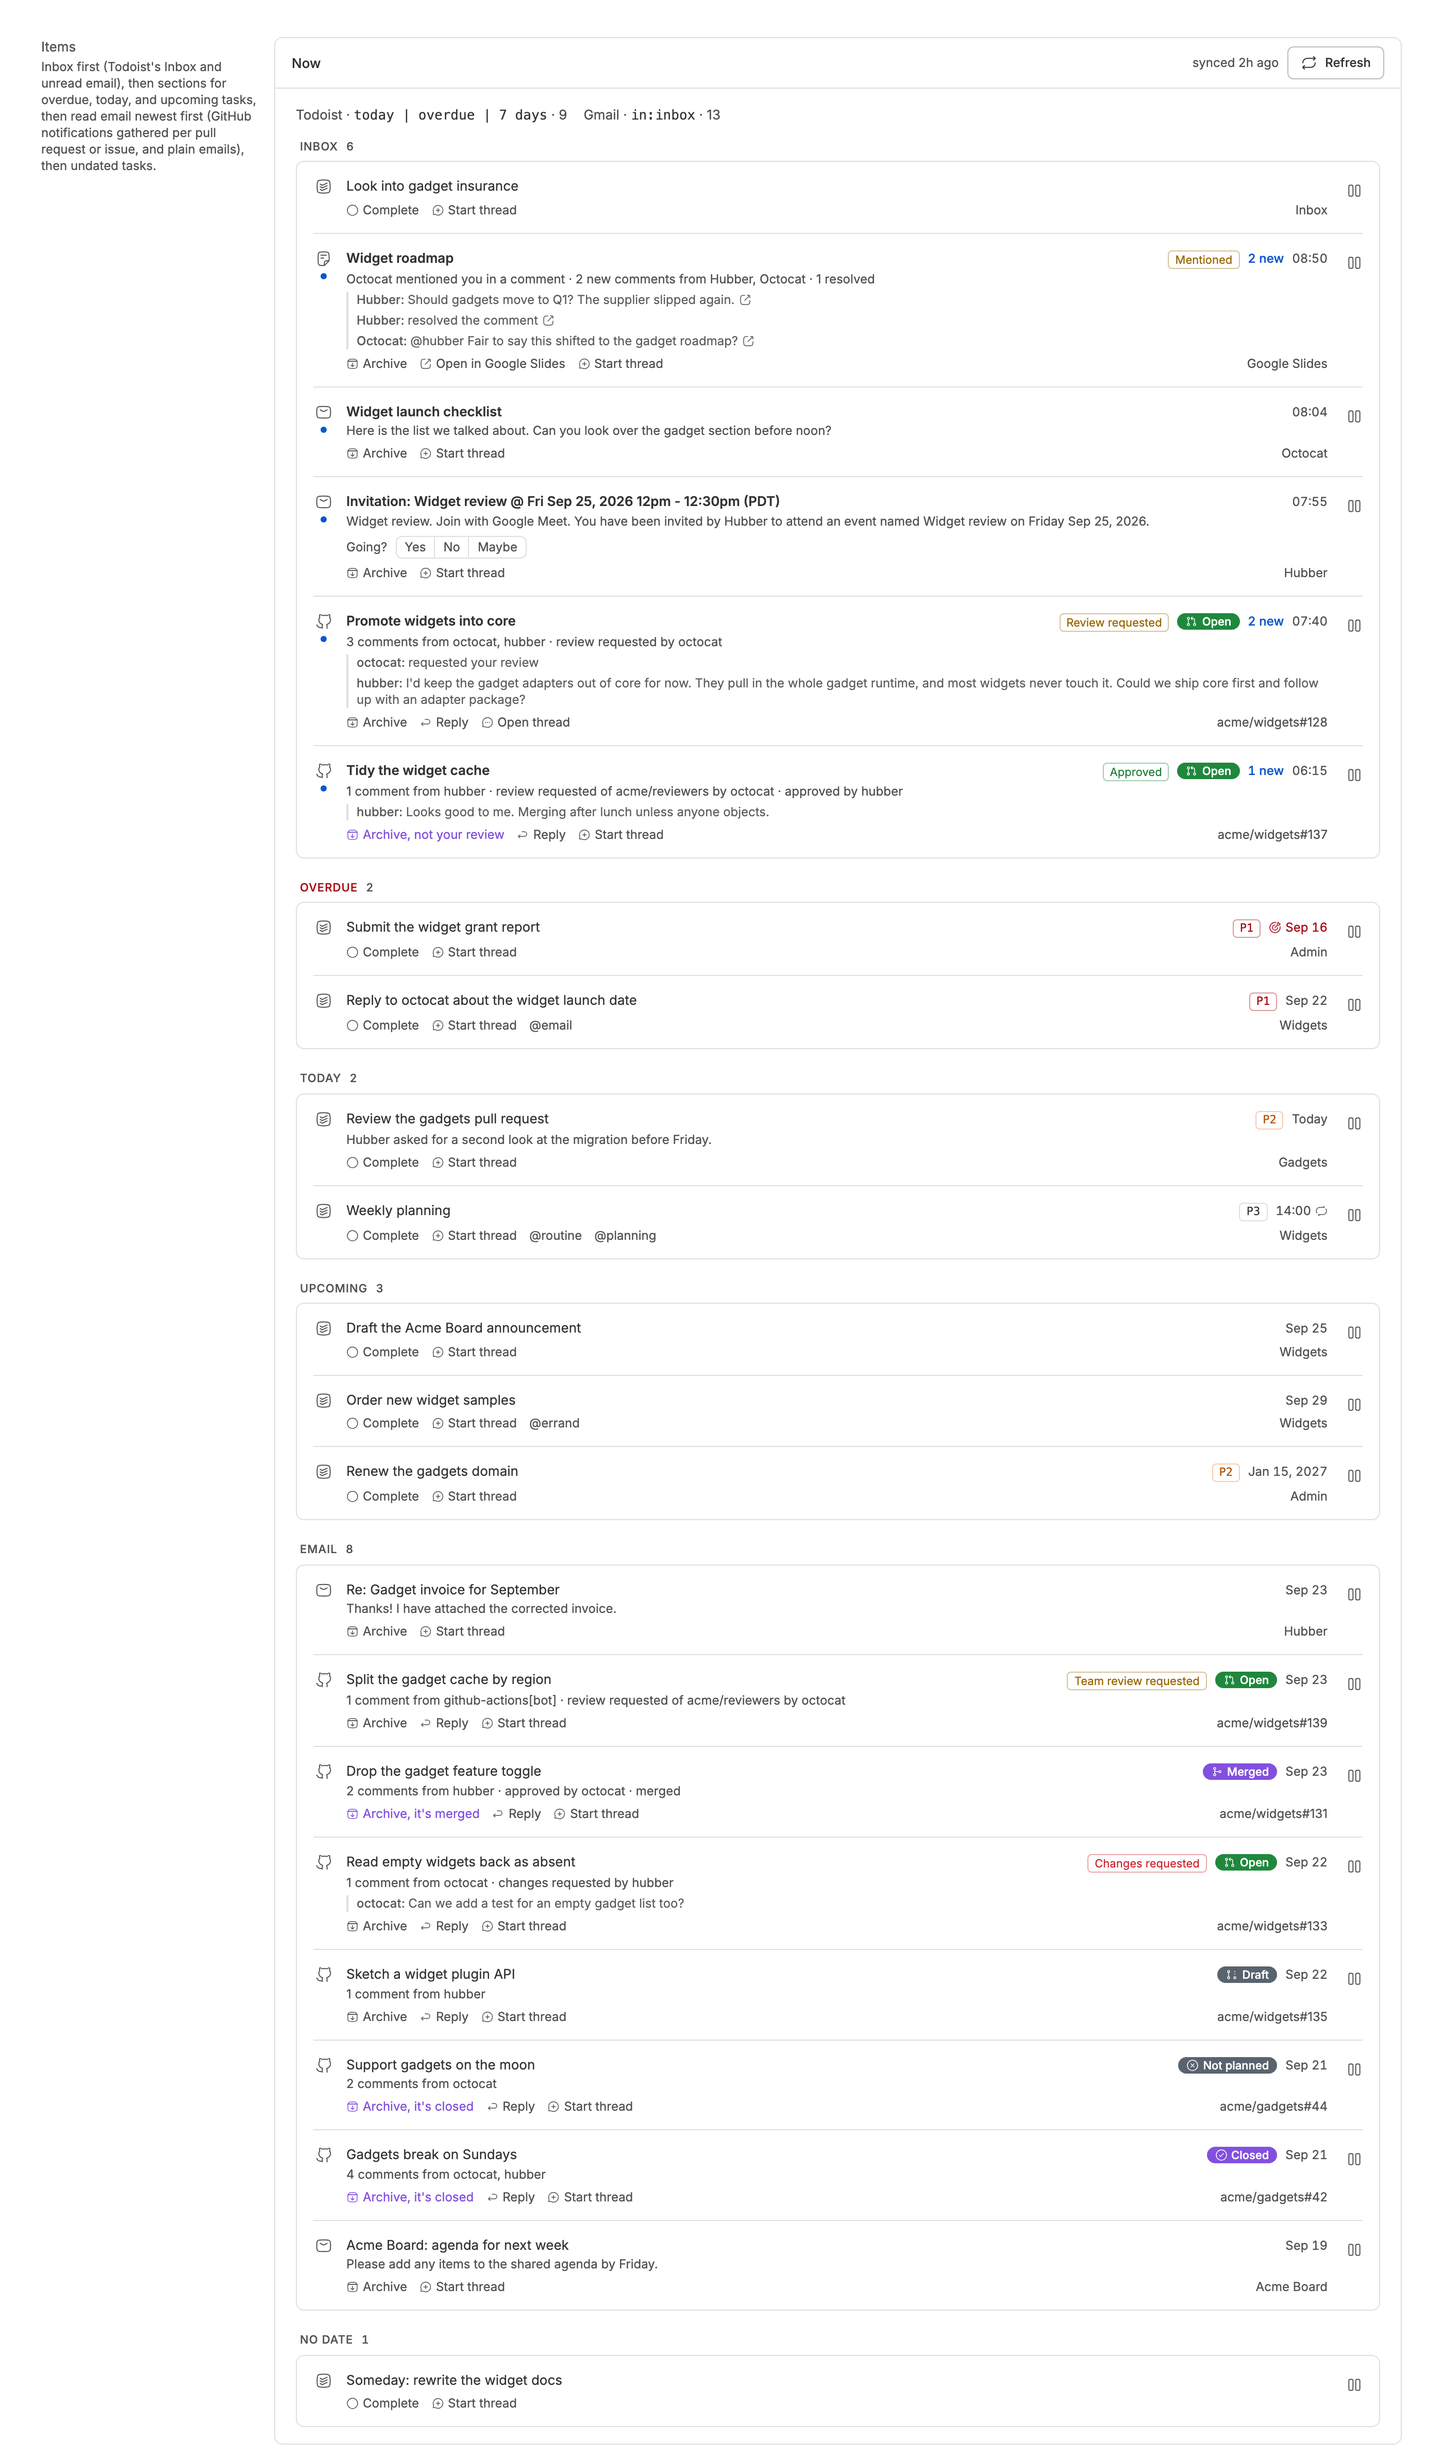
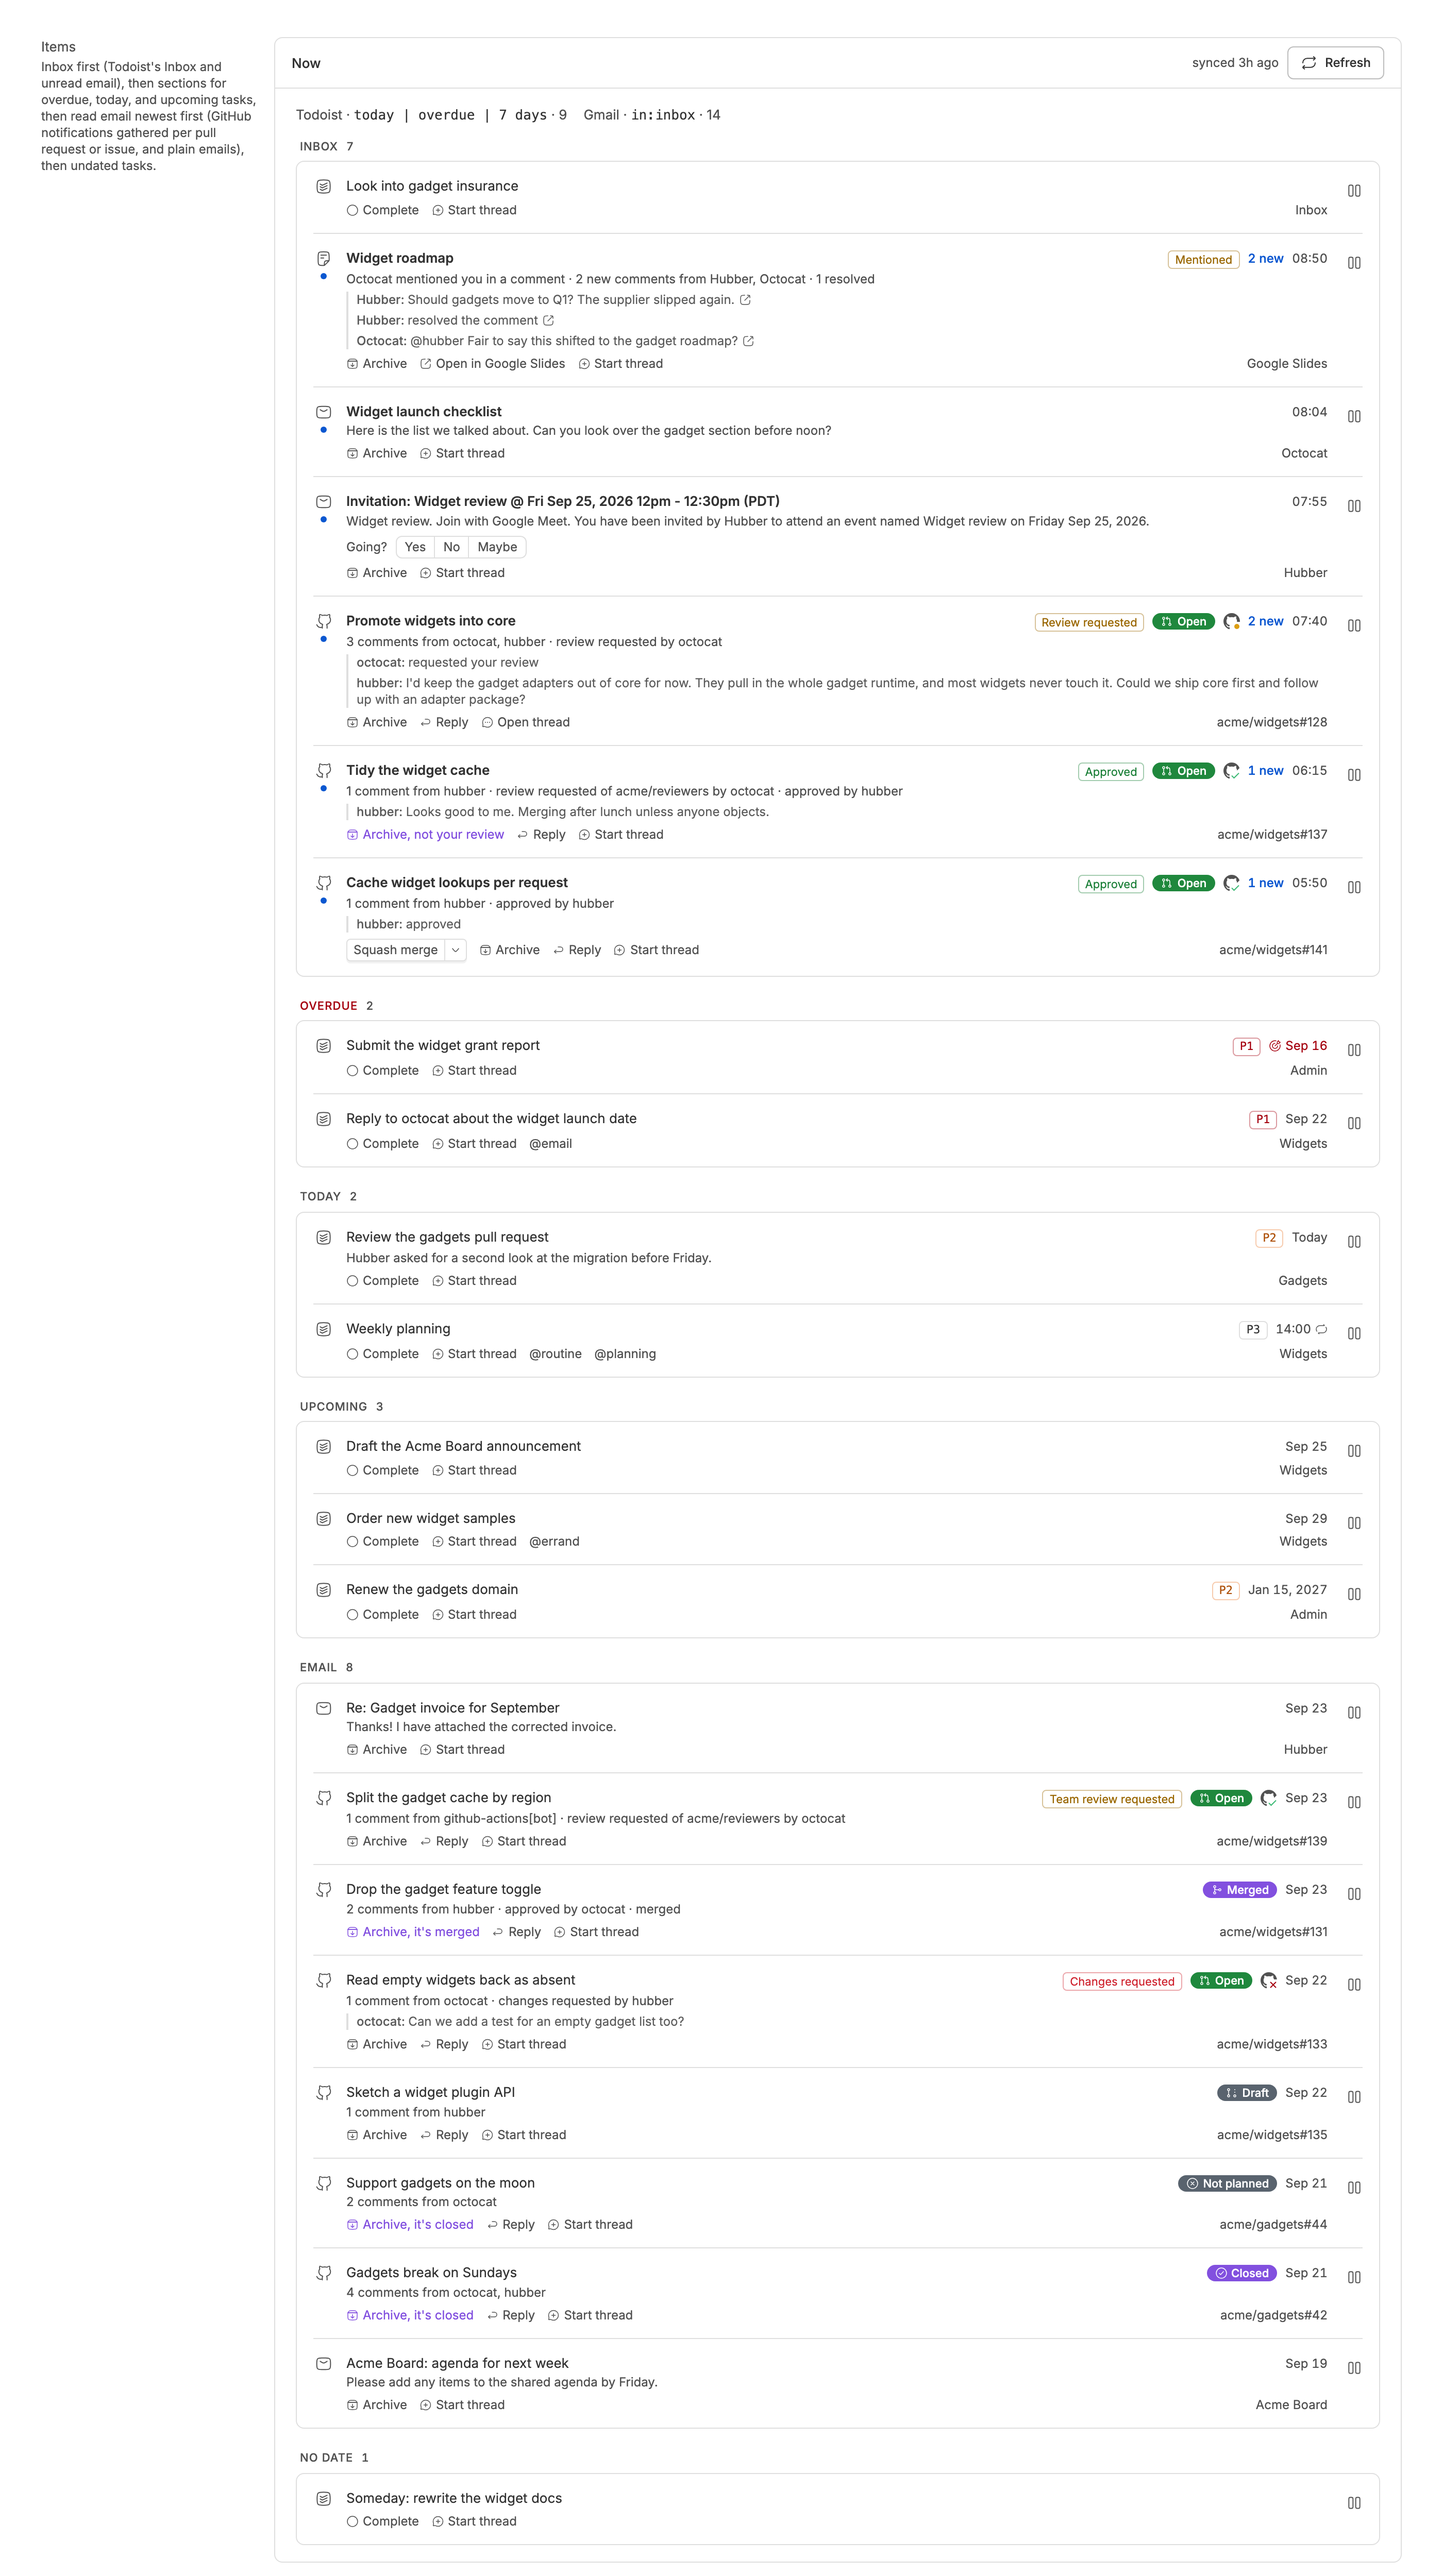
0e83e00 Show check status and merge your own pull requests from a Now row
danielbachhuber/bb-plugins@0e83e00116a48315a2ef3e7e350efe1634c48fa1

diff --git a/now/README.md b/now/README.md
@@ -2,7 +2,7 @@
 
 # Now
 
-One list of what needs doing now, from Todoist and your Gmail inbox, with GitHub notifications gathered per pull request or issue and Google Docs comments per document. Complete tasks, archive email, answer calendar invitations, snooze anything, reply on GitHub, and start a thread from any row.
+One list of what needs doing now, from Todoist and your Gmail inbox, with GitHub notifications gathered per pull request or issue and Google Docs comments per document. Complete tasks, archive email, answer calendar invitations, snooze anything, reply on GitHub, merge your own pull requests, and start a thread from any row.
 
 Source: [`bb-plugin-now`](https://github.com/danielbachhuber/bb-plugins/tree/main/bb-plugin-now)
 
